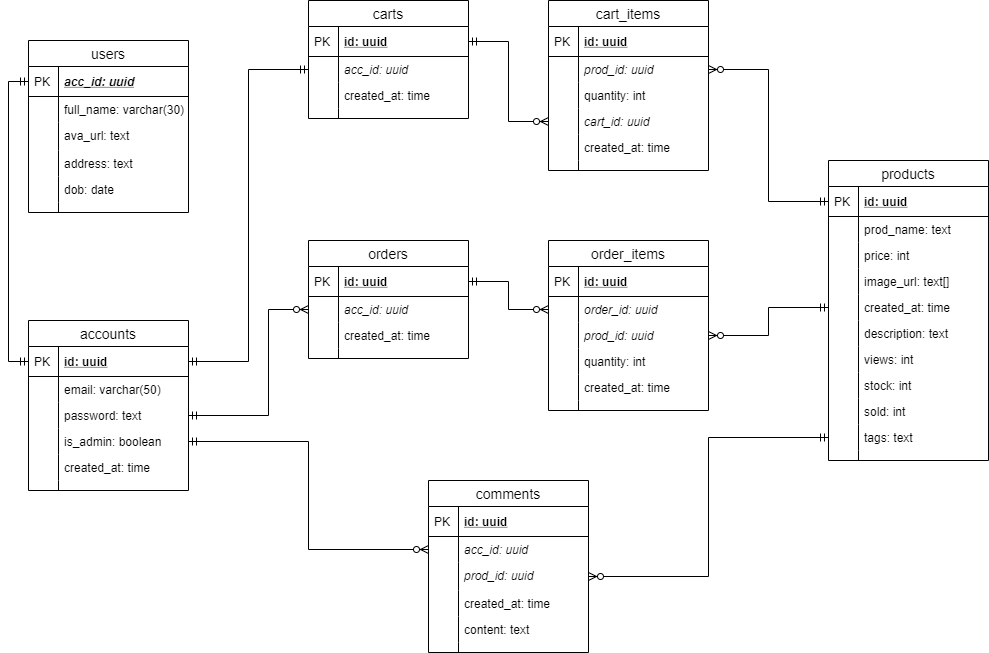
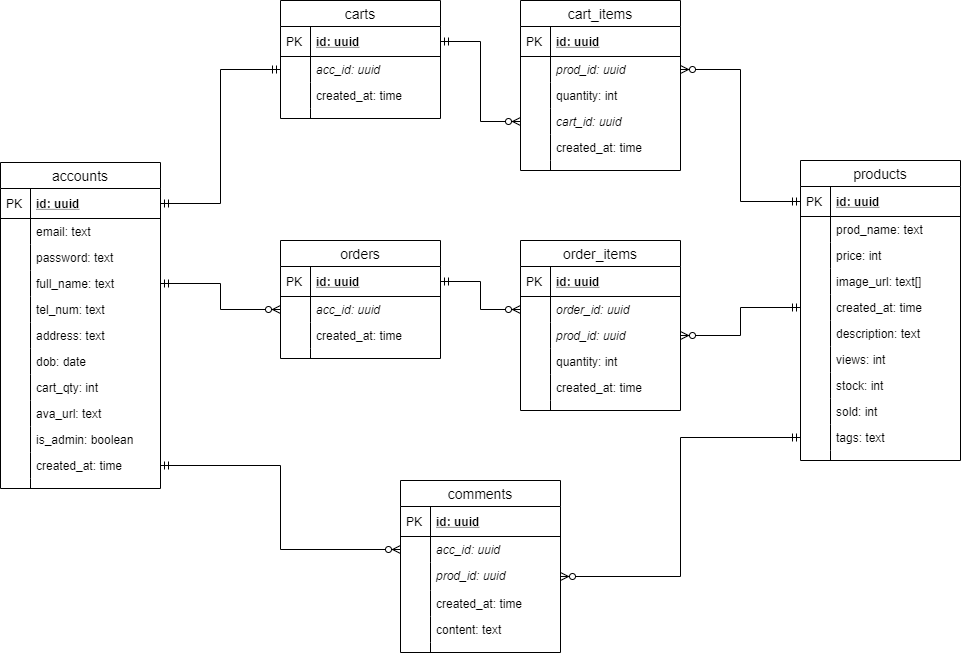
Updata database

diff --git a/frontend/src/App.js b/frontend/src/App.js
@@ -34,13 +34,13 @@ class App extends React.Component {
                 </Layout>
                 <Router>
                     <Route path='/' exact={true} component={HomeScreen} />
-                    <Route path='/product' component={ProductScreen} />
+                    <Route path='/product/:prod_id' component={ProductScreen} />
                     <Route path='/cart' component={CartScreen} />
                     <Route path='/login' component={LoginScreen} />
                     <Route path='/register' component={RegisterScreen} />
                     <Route path='/profile' component={ProfileScreen} />
                     <Route path='/addItem' component={AddItemScreen} />
-                    <Route path='/editItem' component={EditItemScreen} />
+                    <Route path='/editItem/:prod_id' component={EditItemScreen} />
                     <Route path='/history' component={OrderHistoryScreen} />
                 </Router>
             </div >

diff --git a/frontend/src/pages/ProductScreen.jsx b/frontend/src/pages/ProductScreen.jsx
@@ -2,6 +2,11 @@ import React from "react";
 import { } from "antd";
 
 class ProductScreen extends React.Component {
+    componentWillMount () {
+        
+    }
+
+
     render() {
         return (
             <div></div>

diff --git a/backend/routes/index.js b/backend/routes/index.js
@@ -7,6 +7,3 @@ module.exports = app => {
     app.use('/api/posts', postRouter);
     app.use('/api/uploads', uploadRouter);
 }
-
-
-

diff --git a/create-table-script.md b/create-table-script.md
@@ -2,8 +2,14 @@ CREATE EXTENSION IF NOT EXISTS "uuid-ossp";
 
 CREATE TABLE accounts (
 	id uuid DEFAULT uuid_generate_v4 (),
-	email VARCHAR(50) NOT NULL,
+	email TEXT NOT NULL,
 	password TEXT NOT NULL,
+	full_name TEXT NOT NULL,
+	tel_num TEXT NOT NULL,
+	address TEXT,
+	dob DATE,
+	cart_qty INT DEFAULT 0,
+	ava_url TEXT DEFAULT 'https://miro.medium.com/max/720/1*W35QUSvGpcLuxPo3SRTH4w.png',
 	is_admin BOOLEAN DEFAULT false,
 	created_at TIMESTAMP WITH TIME ZONE DEFAULT CURRENT_TIMESTAMP,
 	CONSTRAINT accounts_pkey PRIMARY KEY (id)
@@ -17,20 +23,10 @@ CREATE TABLE products (
 	created_at TIMESTAMP WITH TIME ZONE DEFAULT CURRENT_TIMESTAMP,
 	description TEXT,
 	views INT DEFAULT 0,
-	stock INT DEFAULT 0,
+	stock INT DEFAULT 1,
 	sold INT DEFAULT 0,
 	tags TEXT,
 	CONSTRAINT products_pkey PRIMARY KEY (id)
-);
-
-CREATE TABLE users (
-	acc_id uuid NOT NULL,
-	full_name VARCHAR(50),
-	ava_url TEXT DEFAULT 'https://miro.medium.com/max/720/1*W35QUSvGpcLuxPo3SRTH4w.png',
-	address TEXT,
-	dob DATE,
-	CONSTRAINT users_pkey PRIMARY KEY (acc_id),
-	CONSTRAINT users_fk1 FOREIGN KEY (acc_id) REFERENCES accounts (id)
 );
 
 CREATE TABLE carts (
